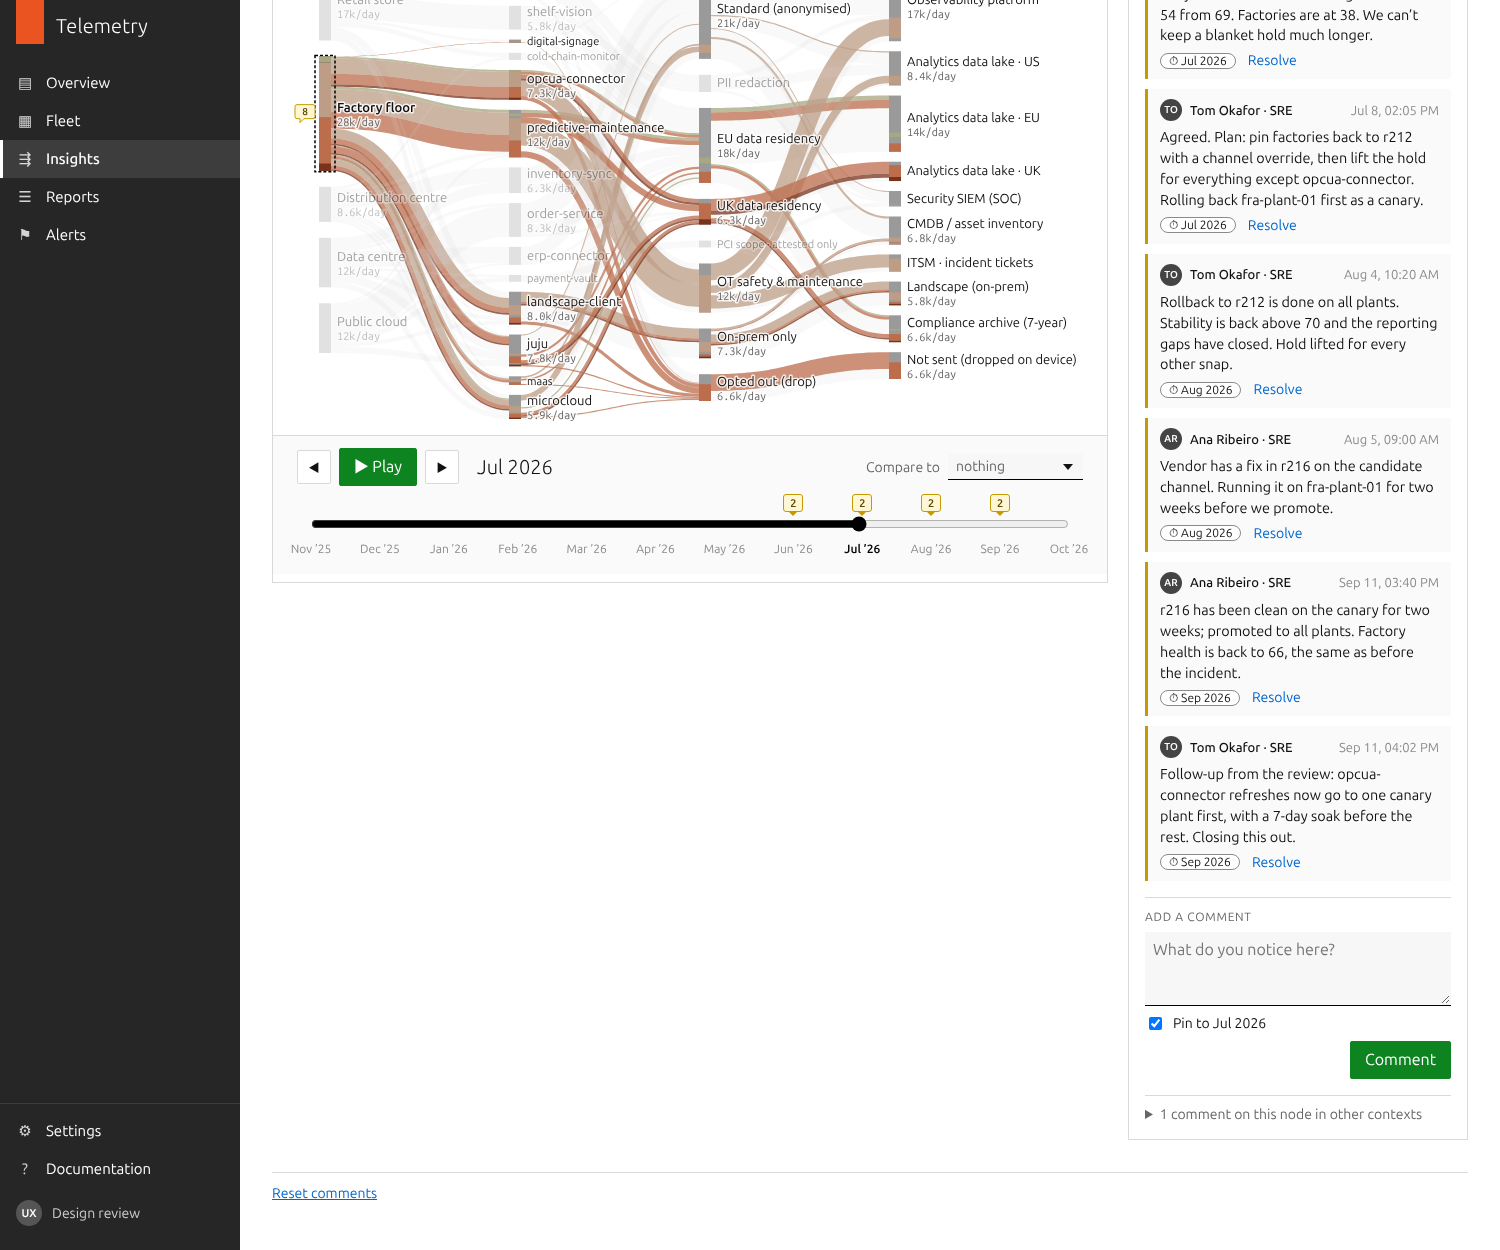
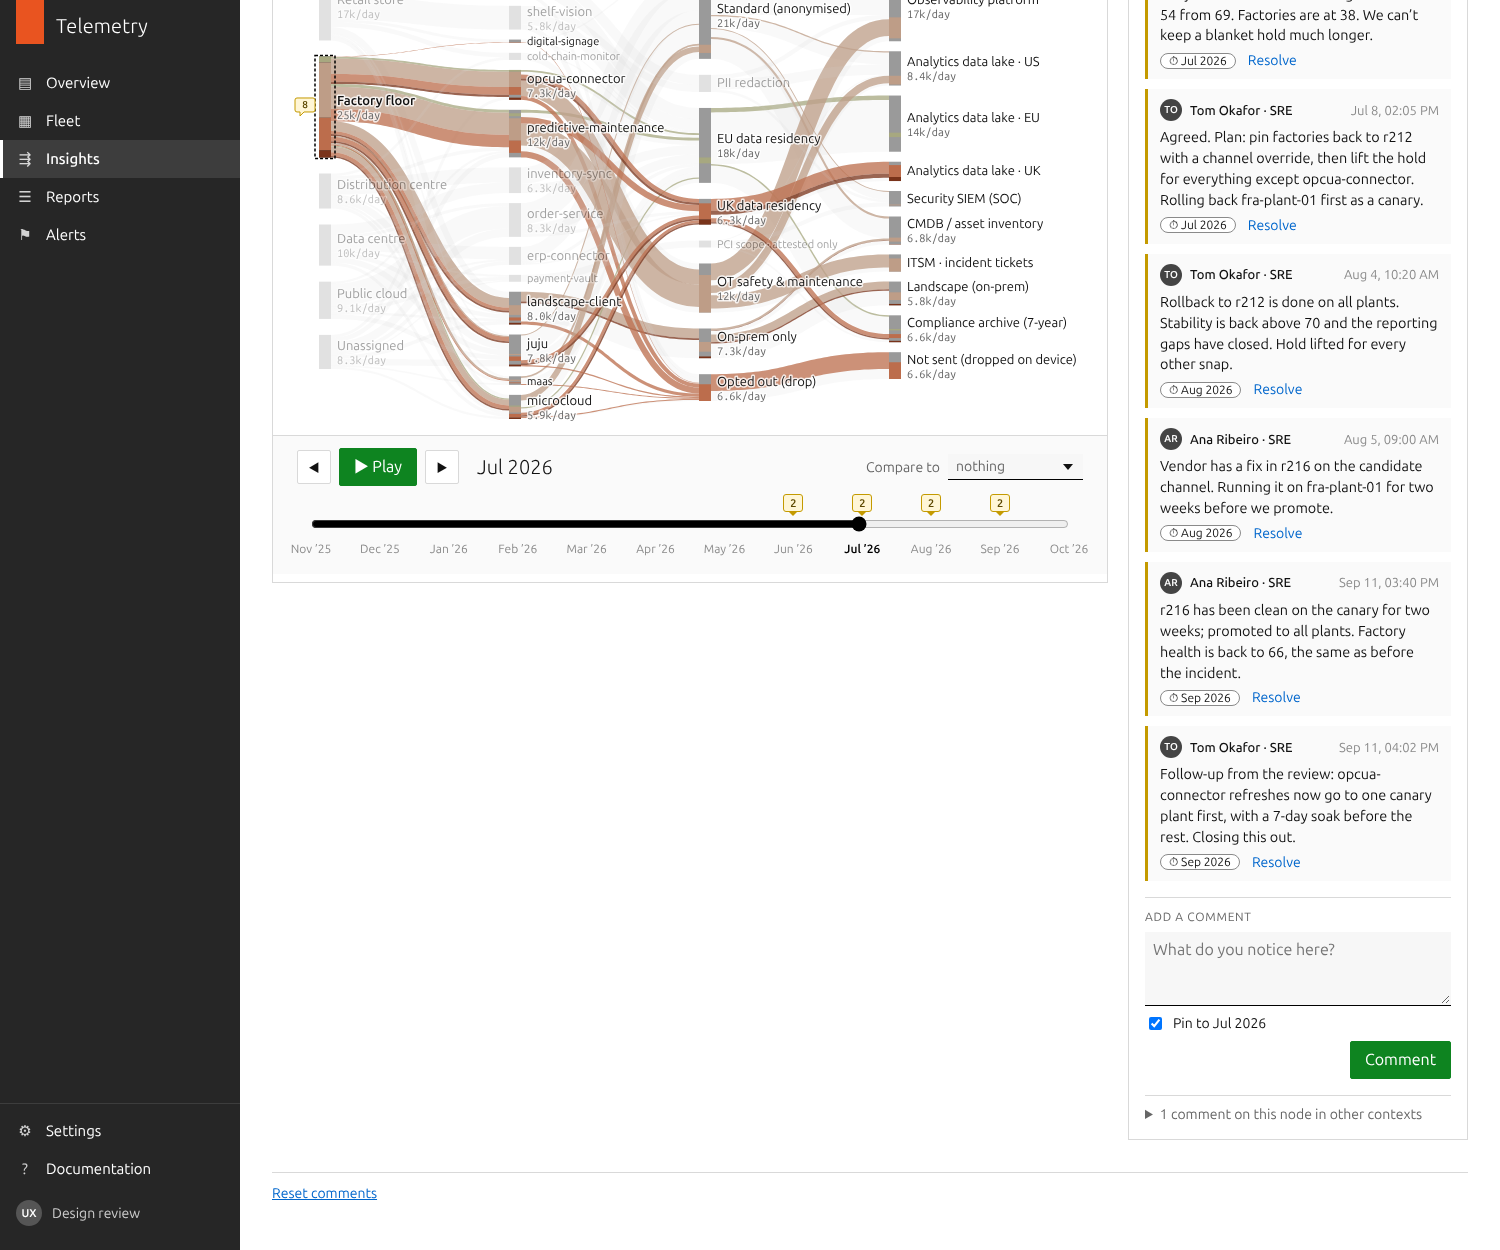
Let people assign missing manual keys from the device tooltip
Site and Environment can be Unassigned (a few devices start without a
label; the model keeps each device's true site, so health and incident
data are unchanged). A pinned device tooltip shows an Assign link for an
unassigned key, opening a modal with an accessible autocomplete limited
to the key's predefined values, plus a hostname-based suggestion for
Site. Assignments update the chart immediately, persist in the browser,
and can be cleared with a Reset assignments footer link.

Claude-Session: https://claude.ai/code/session_0156BKrAD5wHGfcWHmuamSMf

diff --git a/js/app.js b/js/app.js
@@ -530,7 +530,14 @@
         }).join('') + '</dl>';
       }
       body += '<dl class="tooltip__attrs">' + ['site', 'region', 'environment', 'type', 'juju', 'jaas', 'maas', 'microcloud', 'sovereignty', 'confidential', 'release'].map(function (k) {
-        return '<dt>' + esc(TL.ATTRIBUTES[k].short) + '</dt><dd' + (k === view().attr ? ' class="is-view"' : '') + '>' + esc(TL.valueOf(k, a[k]).label) + '</dd>';
+        let val = esc(TL.valueOf(k, a[k]).label);
+        if (a[k] === 'unassigned') {
+          // manual key with no label: offer to assign it (only clickable once the tooltip is pinned)
+          val = '<span class="tooltip__band">Unassigned</span> ' + (pinned === id
+            ? '<a href="#" class="tooltip__assign" data-assign="' + k + '">Assign</a>'
+            : '<span class="tooltip__band">· click the device to assign</span>');
+        }
+        return '<dt>' + esc(TL.ATTRIBUTES[k].short) + '</dt><dd' + (k === view().attr ? ' class="is-view"' : '') + '>' + val + '</dd>';
       }).join('') + '</dl>';
       body += sustainHtml(d.sustain);
       const hist = d.changes.filter(function (c) { return c.month <= periodIndex(); });
@@ -623,7 +630,99 @@
       setTimeout(function () { pinTip(ev, id); }, 30);
     } else if (pinned) hideTip();
   });
-  el.tooltip.addEventListener('click', function (e) { if (e.target.closest('[data-tip-close]')) hideTip(); });
+  el.tooltip.addEventListener('click', function (e) {
+    if (e.target.closest('[data-tip-close]')) { hideTip(); return; }
+    const a = e.target.closest('[data-assign]');
+    if (a && pinned) { e.preventDefault(); openAssign(TL.parseNodeId(pinned).val, a.dataset.assign); }
+  });
+
+  // ---- assigning manual keys (modal with autocomplete) -------------------
+  const ASSIGN_KEY = 'tl.insights.assignments.v1';
+  function loadAssignments() { try { return JSON.parse(localStorage.getItem(ASSIGN_KEY)) || {}; } catch (e) { return {}; } }
+  function saveAssignment(device, key, value) {
+    const all = loadAssignments();
+    (all[device] = all[device] || {})[key] = value;
+    try { localStorage.setItem(ASSIGN_KEY, JSON.stringify(all)); } catch (e) { /* ignore */ }
+  }
+  function applySavedAssignments() {
+    const all = loadAssignments();
+    Object.keys(all).forEach(function (dev) { Object.keys(all[dev]).forEach(function (k) { TL.assign(dev, k, all[dev][k]); }); });
+    $('reset-assign').hidden = !Object.keys(all).length;
+  }
+  const dlg = $('assign-dialog');
+  // Escape inside the dialog closes only the dialog, not the pinned tooltip behind it
+  dlg.addEventListener('keydown', function (e) { if (e.key === 'Escape') e.stopPropagation(); });
+  function openAssign(device, key) {
+    const attr = TL.ATTRIBUTES[key];
+    const options = attr.values.filter(function (v) { return v.id !== 'unassigned'; });
+    const suggestion = TL.suggest(device, key);
+    const sugg = suggestion && TL.valueOf(key, suggestion);
+    dlg.innerHTML =
+      '<form method="dialog" class="p-modal__form" id="assign-form" novalidate>' +
+        '<h2 class="p-modal__title" id="assign-title">Assign ' + esc(attr.label.toLowerCase()) + '</h2>' +
+        '<p class="p-modal__sub">Device <strong>' + esc(device) + '</strong></p>' +
+        '<label class="p-field__label" for="assign-input">' + esc(attr.label) + '</label>' +
+        '<div class="p-combo">' +
+          '<input id="assign-input" class="p-combo__input" type="text" autocomplete="off" role="combobox" aria-autocomplete="list" aria-expanded="true" aria-controls="assign-list" placeholder="Start typing…">' +
+          '<ul class="p-combo__list" id="assign-list" role="listbox" aria-label="' + esc(attr.label) + ' values"></ul>' +
+        '</div>' +
+        (sugg ? '<p class="p-modal__hint">Suggested from the hostname: <a href="#" data-suggest="' + sugg.id + '">' + esc(sugg.label) + '</a></p>' : '') +
+        '<p class="p-modal__hint">Saved as a tag and shared with Landscape.</p>' +
+        '<div class="p-modal__actions"><button type="button" class="p-button" data-cancel>Cancel</button>' +
+        '<button type="submit" class="p-button p-button--positive" id="assign-ok" disabled>Assign</button></div>' +
+      '</form>';
+    const input = $('assign-input'), list = $('assign-list'), ok = $('assign-ok');
+    let matches = options, active = -1, chosen = null;
+    function choose(v) { chosen = v; input.value = v ? v.label : input.value; ok.disabled = !v; }
+    function draw() {
+      const q = input.value.trim().toLowerCase();
+      matches = options.filter(function (v) { return !q || v.label.toLowerCase().indexOf(q) >= 0; });
+      if (active >= matches.length) active = matches.length - 1;
+      list.innerHTML = matches.length ? matches.map(function (v, i) {
+        const label = esc(v.label);
+        const at = q ? v.label.toLowerCase().indexOf(q) : -1;
+        const shown = at >= 0 ? esc(v.label.slice(0, at)) + '<mark>' + esc(v.label.slice(at, at + q.length)) + '</mark>' + esc(v.label.slice(at + q.length)) : label;
+        return '<li role="option" id="assign-opt-' + i + '" class="p-combo__opt' + (i === active ? ' is-active' : '') + (chosen === v ? ' is-chosen' : '') + '" aria-selected="' + (i === active) + '" data-i="' + i + '">' + shown + '</li>';
+      }).join('') : '<li class="p-combo__empty">No matching ' + esc(attr.label.toLowerCase()) + '. Pick one of the predefined values.</li>';
+      input.setAttribute('aria-activedescendant', active >= 0 ? 'assign-opt-' + active : '');
+      // only an exact predefined value can be saved
+      const exact = options.filter(function (v) { return v.label.toLowerCase() === q; })[0];
+      chosen = exact || null; ok.disabled = !chosen;
+    }
+    input.addEventListener('input', function () { active = 0; draw(); });
+    input.addEventListener('keydown', function (e) {
+      if (e.key === 'ArrowDown') { e.preventDefault(); active = Math.min(matches.length - 1, active + 1); draw(); }
+      else if (e.key === 'ArrowUp') { e.preventDefault(); active = Math.max(0, active - 1); draw(); }
+      else if (e.key === 'Enter') {
+        if (!chosen && matches[active]) { e.preventDefault(); choose(matches[active]); draw(); }
+      }
+    });
+    list.addEventListener('mousedown', function (e) {
+      const li = e.target.closest('[data-i]'); if (!li) return;
+      e.preventDefault(); choose(matches[+li.dataset.i]); draw(); input.focus({ preventScroll: true });
+    });
+    dlg.querySelector('[data-cancel]').addEventListener('click', function () { dlg.close(); });
+    const sl = dlg.querySelector('[data-suggest]');
+    if (sl) sl.addEventListener('click', function (e) { e.preventDefault(); choose(TL.valueOf(key, sl.dataset.suggest)); draw(); input.focus({ preventScroll: true }); });
+    $('assign-form').addEventListener('submit', function (e) {
+      e.preventDefault();
+      if (!chosen) return;
+      TL.assign(device, key, chosen.id);
+      saveAssignment(device, key, chosen.id);
+      $('reset-assign').hidden = false;
+      dlg.close();
+      buildHighlight(); buildGroupFilter(); render();
+      if (pinned) { const at = tipAnchor; requestAnimationFrame(function () { pinTip({ clientX: at.x, clientY: at.y }, pinned); }); }
+    });
+    draw();
+    dlg.showModal();
+    input.focus({ preventScroll: true });
+  }
+  $('reset-assign').addEventListener('click', function (e) {
+    e.preventDefault();
+    try { localStorage.removeItem(ASSIGN_KEY); } catch (err) { /* ignore */ }
+    location.reload();
+  });
   // remember the accordion choice, and keep the tooltip on screen as it grows
   el.tooltip.addEventListener('toggle', function (e) {
     if (e.target.matches && e.target.matches('details[data-acc="sustain"]')) { state.sustainOpen = e.target.open; placeTip(); }
@@ -633,6 +732,7 @@
     if (n && (e.key === 'Enter' || e.key === ' ')) { e.preventDefault(); selectNode(n.dataset.node); }
   });
   document.addEventListener('keydown', function (e) {
+    if (dlg.open) return; // the dialog handles its own Escape
     if (e.key === 'Escape' && pinned) { hideTip(); return; }
     if (e.key === 'Escape' && state.selected) { state.selected = null; render(); }
     if (e.key === ' ' && tab().time && e.target === document.body) { e.preventDefault(); state.playing ? stopPlay() : play(); }
@@ -697,10 +797,11 @@
       else hideTip();
     }, 30);
   });
-  window.addEventListener('scroll', hideTip, { passive: true });
+  window.addEventListener('scroll', function () { if (!$('assign-dialog').open) hideTip(); }, { passive: true });
   el.wrap.addEventListener('scroll', hideTip, { passive: true });
 
   // ---- boot -----------------------------------------------------------
+  applySavedAssignments();
   rebuildControls();
   render();
 })(window.TL);

diff --git a/js/data.js b/js/data.js
@@ -114,7 +114,7 @@ window.TL = window.TL || {};
     site: { label: 'Site', short: 'Site', values: [
       { id: 'store', label: 'Retail store' }, { id: 'factory', label: 'Factory floor' },
       { id: 'dc', label: 'Distribution centre' }, { id: 'datacentre', label: 'Data centre' },
-      { id: 'cloud', label: 'Public cloud' }] },
+      { id: 'cloud', label: 'Public cloud' }, { id: 'unassigned', label: 'Unassigned' }] },
     type: { label: 'Device type', short: 'Type', values: [
       { id: 'metal', label: 'Bare-metal server' }, { id: 'vm', label: 'Virtual machine' },
       { id: 'k8s', label: 'Kubernetes node' }, { id: 'edge', label: 'Edge device' }] },
@@ -122,7 +122,7 @@ window.TL = window.TL || {};
       { id: 'fra', label: 'Frankfurt' }, { id: 'par', label: 'Paris' }, { id: 'ldn', label: 'London' },
       { id: 'nyc', label: 'New York' }, { id: 'sfo', label: 'San Francisco' }, { id: 'sgp', label: 'Singapore' }] },
     environment: { label: 'Environment', short: 'Environment', values: [
-      { id: 'prod', label: 'Production' }, { id: 'staging', label: 'Staging' }, { id: 'lab', label: 'Lab' }] },
+      { id: 'prod', label: 'Production' }, { id: 'staging', label: 'Staging' }, { id: 'lab', label: 'Lab' }, { id: 'unassigned', label: 'Unassigned' }] },
     release: { label: 'Ubuntu release', short: 'Release', values: [
       { id: '2004', label: 'Ubuntu 20.04 (ESM)' }, { id: '2204', label: 'Ubuntu 22.04 LTS' }, { id: '2404', label: 'Ubuntu 24.04 LTS' }, { id: '2604', label: 'Ubuntu 26.04 LTS' }] }
   };
@@ -377,7 +377,7 @@ window.TL = window.TL || {};
       parts.stability = clamp(parts.stability - 35);
       parts.reporting = clamp(parts.reporting - 20);
     }
-    const fi = INCIDENT.fleet[m], fa = a.site === 'factory' && INCIDENT.factory[m];
+    const fi = INCIDENT.fleet[m], fa = d.siteTrue === 'factory' && INCIDENT.factory[m];
     if (fi) Object.keys(fi).forEach(function (k) { parts[k] = clamp(parts[k] + fi[k]); });
     if (fa) Object.keys(fa).forEach(function (k) {
       parts[k] = k === 'stability' ? Math.min(parts[k], fa[k]) : clamp(parts[k] + fa[k]);
@@ -573,7 +573,40 @@ window.TL = window.TL || {};
   const GROUP_BYS = [];
   GROUP_BY_MENU.forEach(function (e) { if (e.id) GROUP_BYS.push(e.id); else e.items.forEach(function (k) { GROUP_BYS.push(k); }); });
 
+  // ---- Manual keys and assignment ----------------------------------------
+  // Site and Environment are labels people assign (e.g. Landscape tags), so
+  // some devices start without one. The model keeps each device's true site
+  // (d.siteTrue) for generating its snaps and health; only the label is missing.
+  const MANUAL_KEYS = ['site', 'environment'];
+  DEVICES.forEach(function (d) { d.siteTrue = d.attrs.site; });
+  (function () {
+    const r = mulberry32(271828);
+    const pickSome = function (n) {
+      const out = [];
+      while (out.length < n) { const d = DEVICES[Math.floor(r() * DEVICES.length)]; if (out.indexOf(d) < 0) out.push(d); }
+      return out;
+    };
+    pickSome(4).forEach(function (d) { d.attrs.site = 'unassigned'; });
+    pickSome(3).forEach(function (d) { d.attrs.environment = 'unassigned'; });
+  })();
+  const SITE_FROM_HOST = { store: 'store', plant: 'factory', depot: 'dc', dc: 'datacentre', cloud: 'cloud' };
+  function clearCache() { Object.keys(cache).forEach(function (k) { delete cache[k]; }); }
+  // Assign a manual key's value to a device (applies to its label in every month)
+  function assign(deviceId, key, value) {
+    const d = DEVICES.filter(function (x) { return x.id === deviceId; })[0];
+    if (!d || MANUAL_KEYS.indexOf(key) < 0 || !valueOf(key, value)) return false;
+    d.attrs[key] = value; clearCache();
+    return true;
+  }
+  // A suggested value, if one can be inferred (Site from the hostname)
+  function suggest(deviceId, key) {
+    if (key !== 'site') return null;
+    const code = deviceId.split('-')[1];
+    return SITE_FROM_HOST[code] || null;
+  }
+
   Object.assign(TL, {
+    MANUAL_KEYS: MANUAL_KEYS, assign: assign, suggest: suggest,
     MONTHS: MONTHS, monthLabel: monthLabel,
     ATTRIBUTES: ATTRIBUTES, DIMENSIONS: DIMENSIONS, ROUTING: ROUTING, PALETTE: PALETTE, HEALTH_COMPONENTS: HEALTH_COMPONENTS, HEALTH_RAMP: HEALTH_RAMP,
     DEVICES: DEVICES, VIEWS: VIEWS, GROUP_BYS: GROUP_BYS, GROUP_BY_MENU: GROUP_BY_MENU, GROUP_BY_LABELS: GROUP_BY_LABELS,

diff --git a/css/app.css b/css/app.css
@@ -318,3 +318,26 @@ button, input, select, textarea { font: inherit; color: inherit; }
 .tooltip__sum { font-size: .75rem; color: #ddd; }
 .tooltip__acc[open] .tooltip__sum { display: none; }
 .tooltip:not(.is-pinned) .tooltip__acc summary::after { opacity: .5; }
+
+/* Assign link in tooltips */
+.tooltip__assign { color: #8fc1ff; margin-left: 4px; }
+
+/* Modal + autocomplete */
+.p-modal { border: 0; padding: 0; width: min(440px, calc(100vw - 32px)); border-radius: 2px; box-shadow: 0 8px 32px rgba(0,0,0,.3); }
+.p-modal::backdrop { background: rgba(0,0,0,.45); }
+.p-modal__form { padding: 20px 24px 20px; display: flex; flex-direction: column; gap: 8px; }
+.p-modal__title { font-size: 1.375rem; font-weight: 300; margin: 0; }
+.p-modal__sub { margin: 0 0 8px; color: var(--muted); font-size: .9375rem; }
+.p-modal__hint { margin: 0; font-size: .8125rem; color: var(--muted); }
+.p-modal__actions { display: flex; justify-content: flex-end; gap: 8px; margin-top: 12px; }
+.p-button:disabled { opacity: .45; cursor: not-allowed; }
+.p-combo { position: relative; }
+.p-combo__input { width: 100%; border: 0; border-bottom: 1px solid var(--ink); background: var(--bg-soft); padding: 8px 10px; }
+.p-combo__list { list-style: none; margin: 0; padding: 4px 0; border: 1px solid var(--border); border-top: 0; max-height: 200px; overflow-y: auto; }
+.p-combo__opt { padding: 6px 10px; cursor: pointer; }
+.p-combo__opt.is-active, .p-combo__opt:hover { background: var(--bg-soft); }
+.p-combo__opt.is-chosen { font-weight: 500; }
+.p-combo__opt.is-chosen::after { content: " ✓"; color: var(--positive); }
+.p-combo__opt mark { background: none; font-weight: 600; color: inherit; text-decoration: underline; }
+.p-combo__empty { padding: 6px 10px; color: var(--muted); font-size: .875rem; }
+.p-page-footer__link + .p-page-footer__link { margin-left: 16px; }

diff --git a/index.html b/index.html
@@ -87,10 +87,12 @@
     </section>
     <footer class="p-page-footer">
       <a href="#" class="p-page-footer__link" id="reset-demo" role="button">Reset comments</a>
+      <a href="#" class="p-page-footer__link" id="reset-assign" role="button" hidden>Reset assignments</a>
     </footer>
   </main>
 </div>
 <div class="tooltip" id="tooltip" role="tooltip" hidden></div>
+<dialog class="p-modal" id="assign-dialog" aria-labelledby="assign-title"></dialog>
 
 <script src="js/data.js"></script>
 <script src="js/sankey.js"></script>

diff --git a/README.md b/README.md
@@ -36,6 +36,15 @@ It's a single page with every capability switched on:
 
 Device names say where the device is: `<region>-<site>-<nn>`, e.g. `fra-plant-01`, `nyc-store-02`, `sgp-cloud-01`. Site codes are `store` (retail store), `plant` (factory floor), `depot` (distribution centre), `dc` (data centre) and `cloud` (public cloud). In column 1, devices are sorted by region, then site.
 
+## Assigning manual keys
+
+Site and Environment are **manual** keys: labels people assign, such as Landscape tags. Some devices start without one, and grouping by that key shows them as an **Unassigned** stream.
+
+- **Assigning:** in a pinned device tooltip (click the device), an unassigned key shows an **Assign** link. On hover it says "click the device to assign" instead, since hover tooltips can't be clicked.
+- **The modal:** it has a text field that autocompletes to the key's predefined values. Only a predefined value can be saved, never free text. For Site it suggests a value inferred from the hostname, e.g. `nyc-dc-01` → Data centre.
+- **Effect:** the chart, groups and filter chips update immediately. The assignment is described as being shared with Landscape as a tag. In the prototype it's saved in the browser, and **Reset assignments** in the footer clears it.
+- **Model:** each device keeps its true site, so its snaps, health and the incident data don't change while the label is missing.
+
 ## Publishers (snaps)
 
 The fleet is modelled on a large retailer or manufacturer, spread across retail stores, factory floors, distribution centres, data centres and public cloud. Most publishers are the customer's own or partner applications; Canonical infrastructure snaps are a minority.

diff --git a/CLAUDE.md b/CLAUDE.md
@@ -36,6 +36,7 @@ Prototype of the **Insights** page (Telemetry product): a single-page Sankey. Se
 - View selector is a dropdown starting on **Neutral** (one flow colour): Neutral · Device health · Telemetry residency · Confidential compute · Sustainability ▸ (Lifecycle, Energy) · Canonical infrastructure ▸ (Full/partial stack, Juju, JAAS, MAAS, MicroCloud).
 - No intro/description text and no "synthetic data" note under the page header.
 - Group-by dropdown is categorised by attribute provenance: Manual (Site, Region, Environment, Telemetry residency) · Reported (Device health, Lifecycle, Energy, Confidential compute, Ubuntu release, Device type) · Infrastructure (Full/partial stack, Juju, JAAS, MAAS, MicroCloud). Site is a manually assigned label, not reported by devices.
+- Manual keys (Site, Environment) can be Unassigned; a pinned device tooltip offers an "Assign" link that opens a modal with an autocomplete restricted to predefined values (Site suggested from hostname). Saved in localStorage; "Reset assignments" footer link appears once something is assigned.
 - **Group by** replaces the device column with that attribute's values (e.g. Juju 4.1 / 3.6 / none); publisher, policy and destination stay intact.
 - Single page, no tabs: view + group by + comments + timeline all available. Opens on Neutral view, devices ungrouped, "Compare to: nothing" (no deltas until chosen). "Reset comments" is a footer link.
 - No snapd / telemetry endpoint markers in the chart (removed at the user's request).
